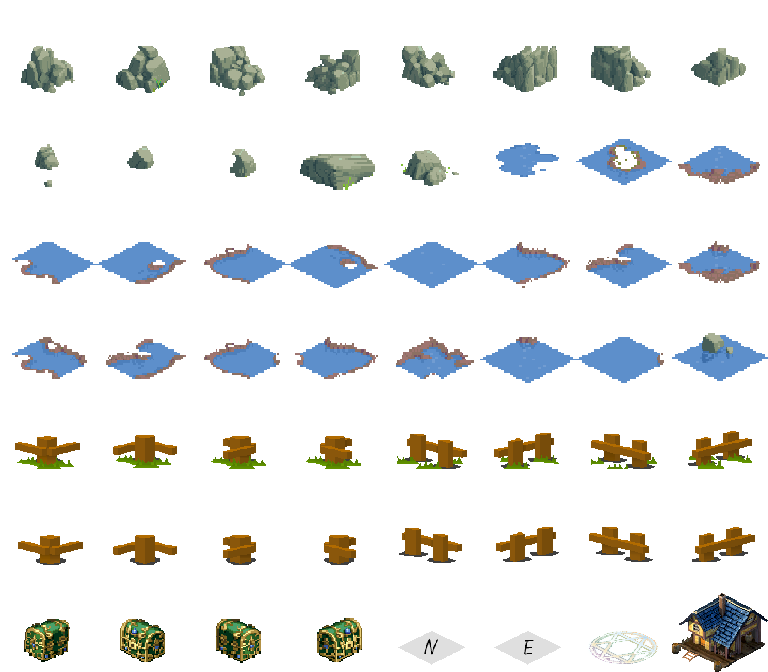
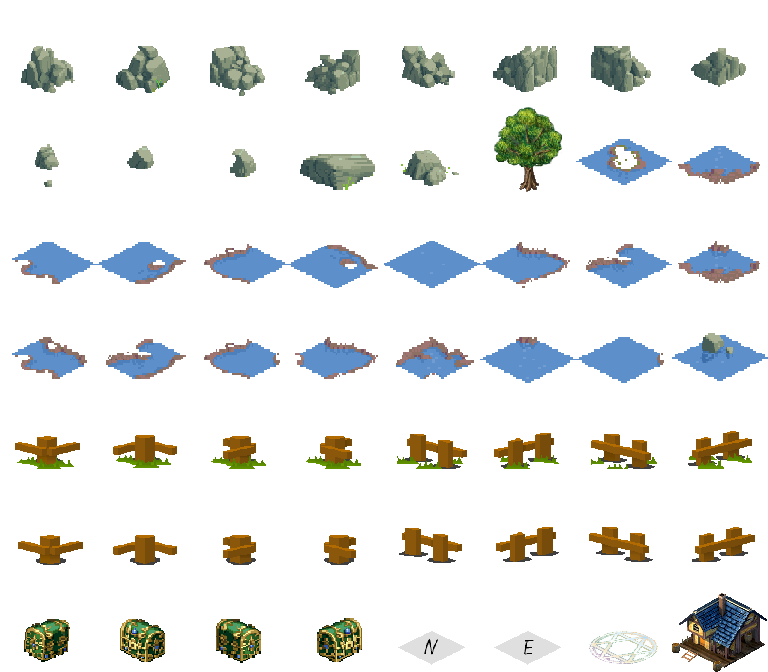
이미지 추가, 변경
오브젝트 타일이 조금 변경되었습니다.

Changed region(s): [[0.625, 0.1562, 0.75, 0.2812], [0.875, 0.875, 1.0, 1.0]]

diff --git a/20170720_1D/mapToolScene.cpp b/20170720_1D/mapToolScene.cpp
@@ -55,7 +55,9 @@ HRESULT mapToolScene::init()
 
 		_tile[i].ter = TER_LOAD;
 		_tile[i].obj = OBJ_ERASE;
-		_tile[i].terFrame.x = 1;
+		// 맵툴 이용할때만 사용
+		_tile[i].terFrame.x = 0;
+		// _tile[i].terFrame.x = 1;
 		_tile[i].terFrame.y = 0;
 		_tile[i].objFrame.x = 0;
 		_tile[i].objFrame.y = 0;
@@ -579,9 +581,18 @@ void mapToolScene::drawTile()
 				}
 				else if (_tile[i].obj != OBJ_HOUSE)
 				{
-					IMAGEMANAGER->findImage(L"IsoObject")->frameRender(_tile[i].x - TILESIZEX / 2 - IMAGEMANAGER->findImage(L"IsoObject")->getFrameWidth() + TILESIZEX,
-						_tile[i].y - _tile[i].z - IMAGEMANAGER->findImage(L"IsoObject")->getFrameHeight() - TILESIZEY * (_tile[i].z - 1),
-						_tile[i].objFrame.x, _tile[i].objFrame.y, true, 1.0f);
+					if (_tile[i].objFrame.x == 5 && _tile[i].objFrame.y == 1)
+					{
+						IMAGEMANAGER->findImage(L"Tree")->render(_tile[i].x - IMAGEMANAGER->findImage(L"Tree")->getWidth() / 2, 
+							_tile[i].y - IMAGEMANAGER->findImage(L"Tree")->getHeight() / 2 - TILESIZEZ / 2, true, 1.0f);
+					}
+
+					else
+					{
+						IMAGEMANAGER->findImage(L"IsoObject")->frameRender(_tile[i].x - TILESIZEX / 2 - IMAGEMANAGER->findImage(L"IsoObject")->getFrameWidth() + TILESIZEX,
+							_tile[i].y - _tile[i].z - IMAGEMANAGER->findImage(L"IsoObject")->getFrameHeight() - TILESIZEY * (_tile[i].z - 1),
+							_tile[i].objFrame.x, _tile[i].objFrame.y, true, 1.0f);
+					}
 				}
 			}
 		}

diff --git a/20170720_1D/loadingScene.cpp b/20170720_1D/loadingScene.cpp
@@ -67,6 +67,7 @@ void loadingScene::loadingImage()
 	_ld->loadFrameImage(L"terrainSelectTile2", L"Image/MapTool/terrainSelectTile2.png", 384 / 2, 96 / 2, 8, 2);
 
 	_ld->loadImage(L"obj_house", L"Image/MapTool/house.png", 768, 627);
+	_ld->loadImage(L"Tree", L"Image/MapTool/tree.png", 192, 237);
 
 	_ld->loadFrameImage(L"settingIcon", L"Image/MapTool/settingIcon.png", 150, 50, 3, 1);
 
